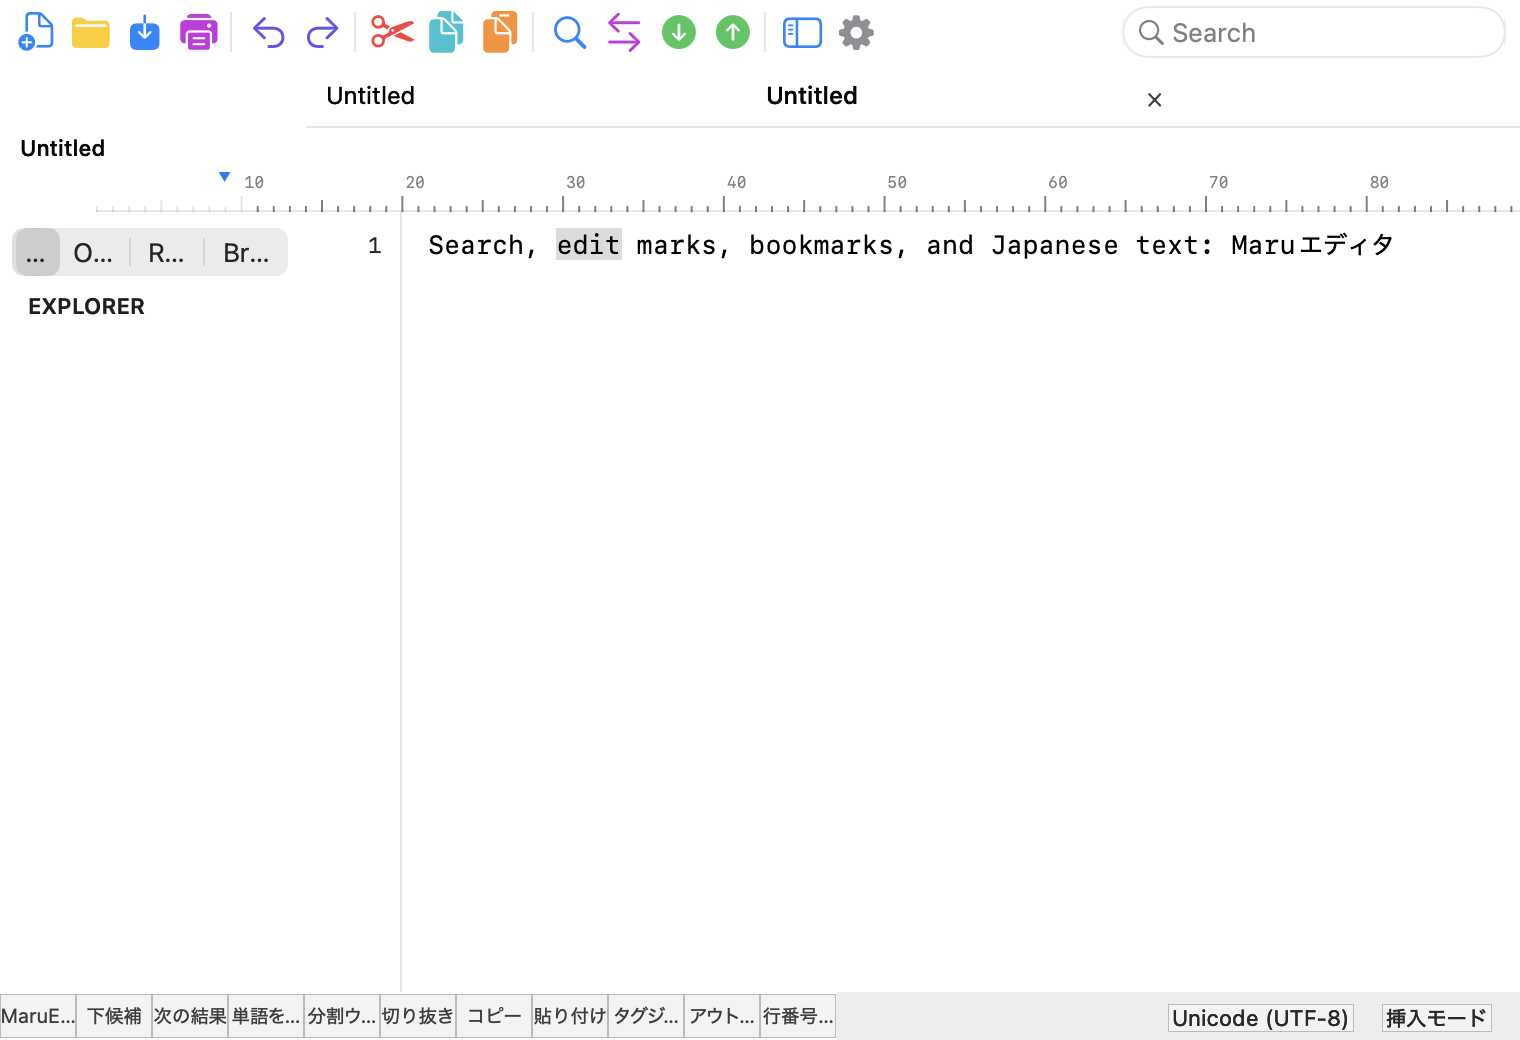
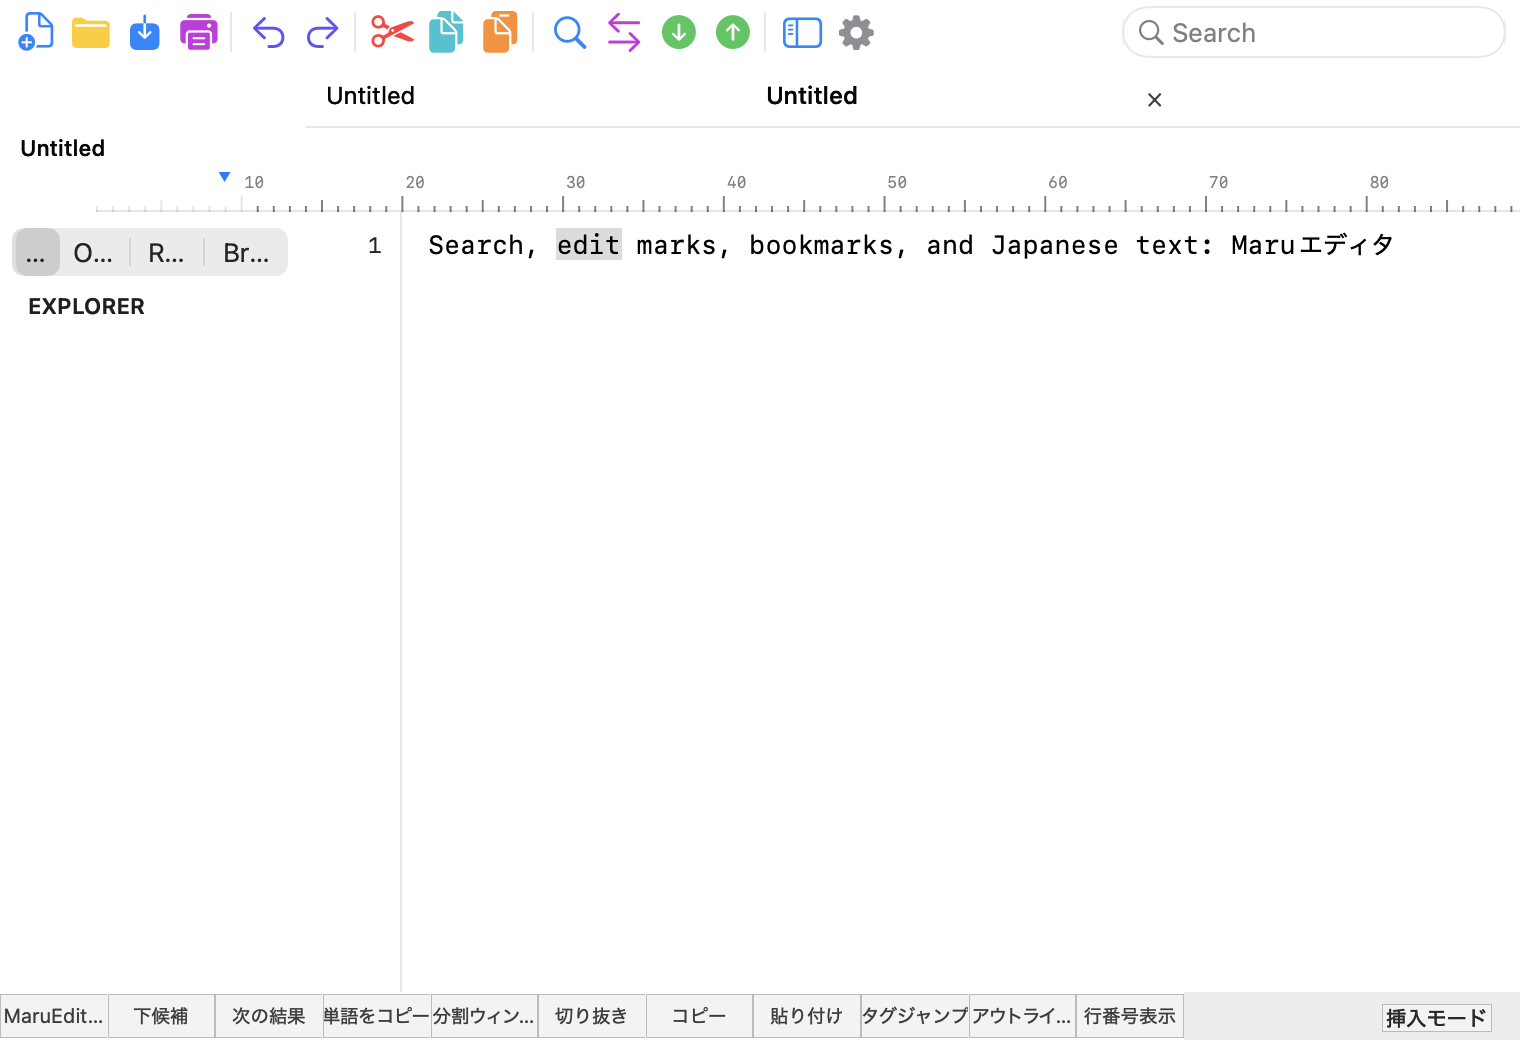
fix: make classic status row resize seamlessly

Changed region(s): [[0.0, 0.9538, 0.8967, 1.0]]

diff --git a/Sources/MaruEditApp/StatusBarView.swift b/Sources/MaruEditApp/StatusBarView.swift
@@ -70,6 +70,7 @@ private final class ActionableStatusLabel: NSTextField {
 
 final class StatusBarView: NSView {
     weak var delegate: StatusBarViewDelegate?
+    var onPreferredWidthChange: (() -> Void)?
 
     private let lineColLabel = ActionableStatusLabel(labelWithString: "Ln 1, Col 1")
     private let messageLabel = NSTextField(labelWithString: "")
@@ -138,6 +139,17 @@ final class StatusBarView: NSView {
         largeFileModeLabel.isHidden ? nil : largeFileModeLabel.stringValue
     }
     var configuredFieldIDs: Set<String> { Set(configuredFields.map(\.rawValue)) }
+    var preferredMergedWidth: CGFloat {
+        applyConfiguredVisibility()
+        let visibleRight = rightFields.filter { !$0.1.isHidden }
+        let rightWidth = visibleRight.reduce(CGFloat.zero) { result, item in
+            result + max(0, item.1.intrinsicContentSize.width)
+        } + CGFloat(visibleRight.count * 14)
+        let visibleLeft = leftFields.filter { !$0.1.isHidden }
+        let leftWidth = visibleLeft.reduce(CGFloat.zero) { $0 + $1.2 }
+            + CGFloat(max(0, visibleLeft.count - 1) * 4)
+        return ceil(max(80, rightWidth + leftWidth))
+    }
     var isMessageAreaVisible: Bool { !messageLabel.isHidden }
     var displayedCapsLockText: String? { capsLockLabel.isHidden ? nil : capsLockLabel.stringValue }
     var displayedMacroActivityText: String? {
@@ -174,7 +186,7 @@ final class StatusBarView: NSView {
         for (field, label) in rightFields.reversed() where !label.isHidden {
             guard configuredFields.contains(field) else { continue }
             label.sizeToFit()
-            if right - label.frame.width < 4 {
+            if right - label.frame.width < (isMergedMode ? 0 : 4) {
                 label.isHidden = true
             } else {
                 right -= label.frame.width
@@ -466,6 +478,7 @@ final class StatusBarView: NSView {
             ? "Unicode (UTF-8)" : encoding.displayName
         updateCharacterCode(at: cursorUTF16Offset)
         needsLayout = true
+        if isMergedMode { onPreferredWidthChange?() }
     }
 
     func updateByteOrderMark(_ hasByteOrderMark: Bool) {
@@ -490,6 +503,8 @@ final class StatusBarView: NSView {
         let name = mode == .insert ? "insert" : "overwrite"
         inputModeLabel.setAccessibilityLabel("Input mode: \(name)")
         inputModeLabel.toolTip = "Current input mode: \(name)"
+        needsLayout = true
+        if isMergedMode { onPreferredWidthChange?() }
     }
 
     func updateLayoutMode(isVertical: Bool, isColumn: Bool, columnCount: Int) {

diff --git a/Sources/MaruEditApp/MainWindowController.swift b/Sources/MaruEditApp/MainWindowController.swift
@@ -211,6 +211,7 @@ final class MainWindowController: NSWindowController,
             self?.performToolbarSearch(pattern)
         }
         classicChrome.onLayoutChange = { [weak self] in self?.layoutContentViews() }
+        statusBar.onPreferredWidthChange = { [weak self] in self?.layoutContentViews() }
         classicChrome.autoresizingMask = [.width, .height]
         cv.addSubview(classicChrome)
 
@@ -382,6 +383,7 @@ final class MainWindowController: NSWindowController,
         layoutContentViews()
     }
     var statusBarFrameForTesting: NSRect { statusBar.frame }
+    var statusBarEncodingFrameForTesting: NSRect? { statusBar.frame(for: .encoding) }
     var classicChromeFrameForTesting: NSRect { classicChrome.frame }
     func performClassicToolbarSearchForTesting(_ pattern: String) {
         classicChrome.performToolbarSearchForTesting(pattern)
@@ -445,11 +447,13 @@ final class MainWindowController: NSWindowController,
         let classicTop = workspaceStyle == .classic ? classicChrome.topChromeHeight : 0
         let classicBottom = workspaceStyle == .classic ? classicChrome.bottomChromeHeight : 0
         let baseY = bottomTabH + paneH
-        let mergedFunctionWidth = classicChrome.mergedFunctionKeyWidth(totalWidth: cv.bounds.width)
         let merged = workspaceStyle == .classic && classicChrome.isFunctionKeyStripMerged
-            && isStatusBarVisible && mergedFunctionWidth > 0
+            && isStatusBarVisible
         statusBar.setMergedMode(merged)
         statusBar.setClassicAppearance(workspaceStyle == .classic)
+        let mergedFunctionWidth = classicChrome.mergedFunctionKeyWidth(
+            totalWidth: cv.bounds.width,
+            trailingStatusWidth: merged ? statusBar.preferredMergedWidth : 0)
 
         classicChrome.externalTopGap = topTabH + findH
         findBar.frame = NSRect(

diff --git a/Sources/MaruEditApp/ClassicWorkspaceChrome.swift b/Sources/MaruEditApp/ClassicWorkspaceChrome.swift
@@ -17,6 +17,7 @@ final class ClassicWorkspaceChrome: NSView {
     private var configuredVisibility = ClassicChromeOptions.allVisible
     private var isSingleDocument = true
     private var isStatusBarVisible = true
+    private var mergedCommandStripWidth: CGFloat = 0
     private(set) var isToolbarFloating = false
     var externalTopGap: CGFloat = 0 { didSet { needsLayout = true } }
     var onLayoutChange: (() -> Void)?
@@ -31,9 +32,10 @@ final class ClassicWorkspaceChrome: NSView {
             ? 0 : Self.commandStripHeight
     }
     var isFunctionKeyStripMerged: Bool { commandStrip.isMergedWithStatusBar }
-    func mergedFunctionKeyWidth(totalWidth: CGFloat) -> CGFloat {
-        commandStrip.isHidden || !commandStrip.isMergedWithStatusBar || !isStatusBarVisible
-            ? 0 : totalWidth * 0.55
+    func mergedFunctionKeyWidth(totalWidth: CGFloat, trailingStatusWidth: CGFloat) -> CGFloat {
+        mergedCommandStripWidth = commandStrip.isHidden || !commandStrip.isMergedWithStatusBar
+            || !isStatusBarVisible ? 0 : max(0, totalWidth - trailingStatusWidth)
+        return mergedCommandStripWidth
     }
 
     override init(frame: NSRect) {
@@ -78,7 +80,7 @@ final class ClassicWorkspaceChrome: NSView {
         commandStrip.frame = NSRect(
             x: 0, y: 0,
             width: commandStrip.isMergedWithStatusBar && isStatusBarVisible
-                ? bounds.width * 0.55 : bounds.width,
+                ? mergedCommandStripWidth : bounds.width,
             height: Self.commandStripHeight)
     }
 

diff --git a/Tests/MaruEditAppTests/ClassicWorkspaceTests.swift b/Tests/MaruEditAppTests/ClassicWorkspaceTests.swift
@@ -86,6 +86,25 @@ final class ClassicWorkspaceTests: XCTestCase {
         XCTAssertGreaterThan(controller.classicChromeFrameForTesting.minY,
                              controller.statusBarFrameForTesting.minY)
     }
+
+    func testMergedCommandCellsConsumeAllSpaceBeforeEncodingWhileResizing() {
+        let controller = MainWindowController()
+        controller.applyPreferences(.defaults)
+        controller.setFunctionKeyStripMergedForTesting(true)
+        controller.setStatusBarFieldsForTesting([.encoding, .inputMode])
+
+        controller.window?.setContentSize(NSSize(width: 760, height: 520))
+        let narrowStatus = controller.statusBarFrameForTesting
+        XCTAssertEqual(controller.statusBarEncodingFrameForTesting?.minX ?? -1, 0, accuracy: 1)
+
+        controller.window?.setContentSize(NSSize(width: 1_200, height: 760))
+        let wideStatus = controller.statusBarFrameForTesting
+        XCTAssertEqual(controller.statusBarEncodingFrameForTesting?.minX ?? -1, 0, accuracy: 1)
+        XCTAssertEqual(wideStatus.width, narrowStatus.width, accuracy: 2,
+                       "status fields should retain their content width")
+        XCTAssertEqual(wideStatus.minX - narrowStatus.minX, 440, accuracy: 2,
+                       "all resized width should be distributed across command cells")
+    }
     func testClassicIsDefaultAndCanSwitchToModernWithoutChangingDocument() async {
         let controller = MainWindowController()
         controller.macroEditor.textView.string = "classic content"

diff --git a/docs/maru-chrome-parity.md b/docs/maru-chrome-parity.md
@@ -185,7 +185,7 @@ therefore visual status-bar parity is **not** 100% complete.
 | Large-file mode | No direct equivalent | MaruEdit-specific safety field | ✅ Native addition (not a parity claim) |
 | Configurable fields/clickability | Normal/merged field sets plus global click enablement | Independent persistent normal/merged field selections, right-click controls, and a global click-action switch | ✅ Complete |
 | Cursor position placement | Compact line:column indicator at the far right of the menu-level top row | macOS reserves the system menu bar's right side, so Classic uses the nearest per-window equivalent: a right-aligned title-bar accessory above the toolbar, and suppresses the duplicate bottom-left field; Modern keeps the native status-bar field | ✅ Native equivalent |
-| Merge with function-key strip | Independent merged configuration; Help at far left; no left message area | Classic defaults to one 24pt merged row beginning with MaruEdit Help, followed by next candidate, next result, copy word, split window, cut, copy, paste, tag jump, outline analysis, and line-number display; key-name prefixes are hidden, compact status fields follow, and the full-width function row is restored when status is hidden | ✅ Complete |
+| Merge with function-key strip | Independent merged configuration; Help at far left; no left message area | Classic defaults to one 24pt merged row beginning with MaruEdit Help, followed by next candidate, next result, copy word, split window, cut, copy, paste, tag jump, outline analysis, and line-number display; key-name prefixes are hidden; encoding touches the final command cell with no blank gap; the command cells share all remaining width as the window resizes; and the full-width function row is restored when status is hidden | ✅ Complete |
 | Exact visual geometry | Version 9.57 native rendering | Classic segmented neutral background implemented; exact metrics await an observed reference screenshot | ❌ Incomplete |
 
 ## Acceptance gates
